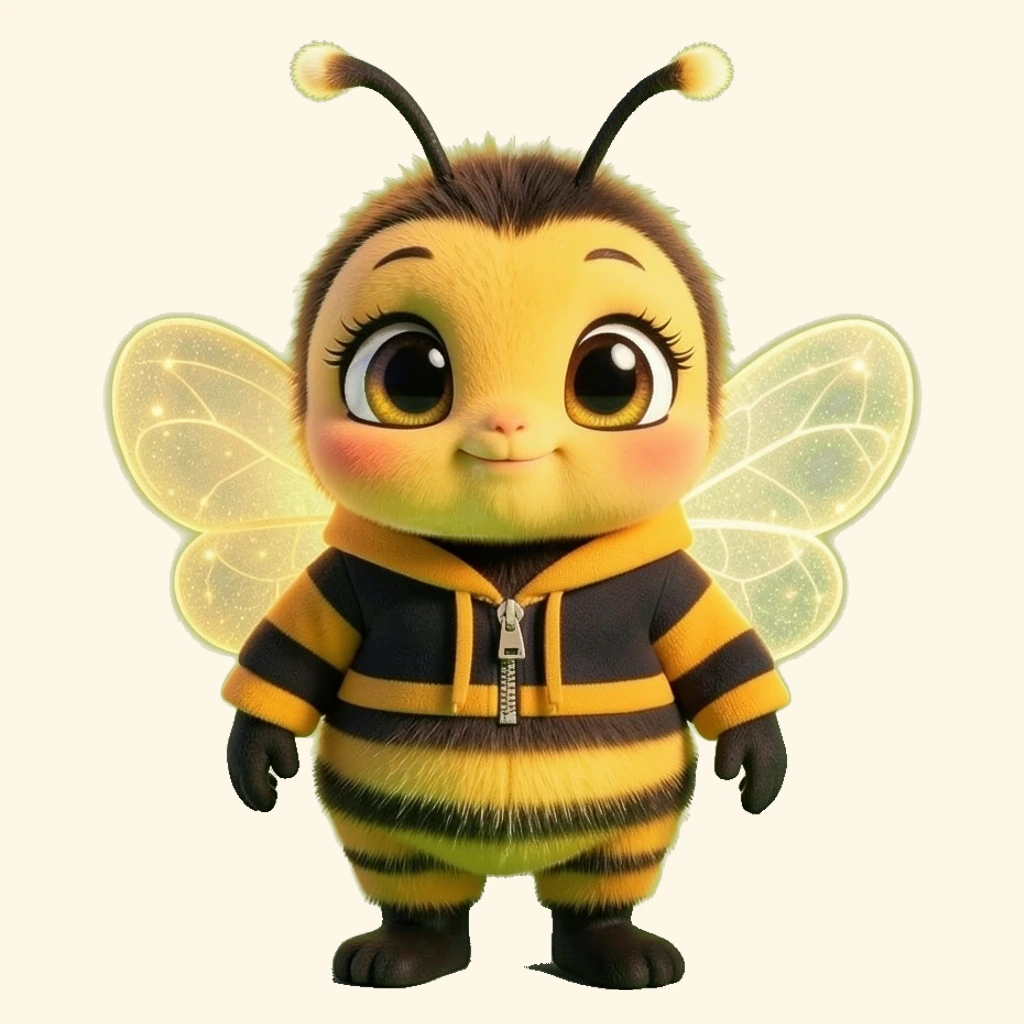
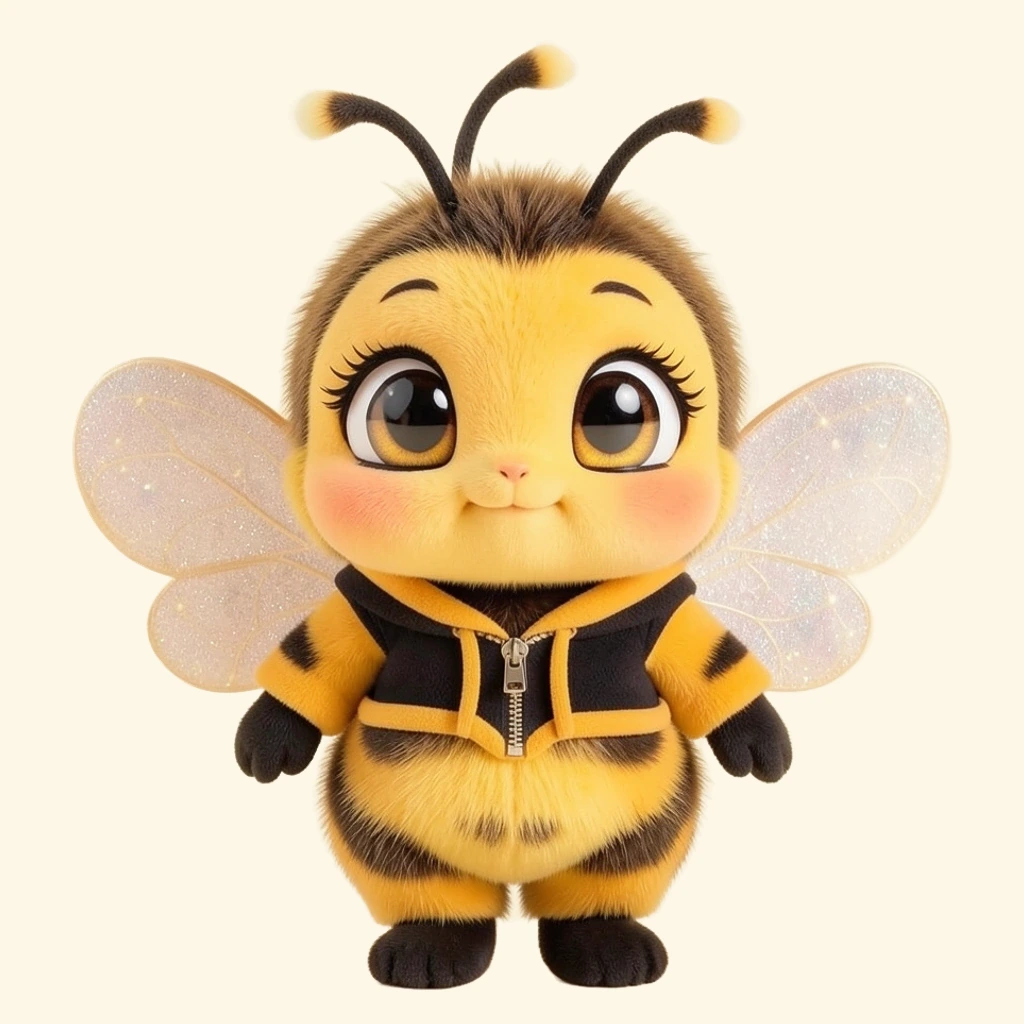
Synchronisation LOCALE depuis le coffre (aea80a1b2) — sans minutes Actions ; le dépôt public republie le site

diff --git a/javis/javis-widget.js b/javis/javis-widget.js
@@ -49,7 +49,7 @@
      ligne est passee. C'est exactement le defaut que j'ai mesure sur Lingua le meme
      jour (message m085 aux autres sessions) : je me l'applique a moi-meme.
      Une ligne, aucun effet visible. L'audit LIVE du domaine la lit tout seul. */
-  var JAVIS_VER = 'v1.38';
+  var JAVIS_VER = 'v1.39';
   try { window.JAVIS_VER = JAVIS_VER; } catch (e) {}
   /* d'où ce fichier vient : la mise à jour relit CETTE adresse pour savoir quelle Bee est servie (document.currentScript
      n'existe qu'au chargement du fichier, pas plus tard) */
@@ -2849,21 +2849,23 @@
      Mesuré à la main sur la planche 1024 × 1024 (30.10). */
   SQUELETTES['bee/v3'] = {
     os: [
-      { id: 'antG', parent: 'tete', a: [435, 180], trace: [[435, 180], [405, 120], [370, 80], [320, 62]], r: 28, f: 22, cote: -1, sens: 'haut', type: 'antenne' },
-      { id: 'antD', parent: 'tete', a: [590, 185], trace: [[590, 185], [625, 120], [670, 85], [712, 68]], r: 28, f: 22, cote: 1, sens: 'haut', type: 'antenne' },
-      { id: 'aileG', parent: 'tete', a: [300, 540], trace: [[255, 490], [225, 462], [177, 400]], r: 40, f: 20, cote: -1, sens: 'haut', type: 'aile', amp: 2.6, bornes: [-14, 14] },
-      { id: 'aileD', parent: 'tete', a: [725, 540], trace: [[770, 490], [800, 462], [848, 400]], r: 40, f: 20, cote: 1, sens: 'haut', type: 'aile', amp: 2.6, bornes: [-14, 14] },
-      { id: 'aileDb', parent: 'tete', a: [790, 545], trace: [[800, 520], [835, 585], [855, 665]], r: 32, f: 16, cote: 1, sens: 'haut', type: 'aile', amp: 2.6, bornes: [-14, 14] },
-      { id: 'brasG', parent: 'corps', a: [300, 620], trace: [[300, 620], [268, 700], [262, 780]], r: 48, f: 24, cote: -1, sens: 'bas', type: 'bras' },
-      { id: 'brasD', parent: 'corps', a: [735, 625], trace: [[735, 625], [760, 700], [752, 780]], r: 48, f: 24, cote: 1, sens: 'bas', type: 'bras', bornes: [-8, 14] },
-      { id: 'jambeG', parent: 'corps', a: [420, 880], trace: [[420, 880], [405, 945], [395, 975]], r: 50, f: 20, cote: -1, sens: 'bas', type: 'jambe' },
-      { id: 'jambeD', parent: 'corps', a: [600, 880], trace: [[600, 880], [610, 940], [625, 975]], r: 50, f: 20, cote: 1, sens: 'bas', type: 'jambe' },
-      { id: 'oeilG', parent: 'visage', a: [398, 375], ellipse: [398, 375, 58, 55], f: 18, type: 'oeil', cote: -1 },
-      { id: 'oeilD', parent: 'visage', a: [628, 377], ellipse: [628, 377, 60, 55], f: 18, type: 'oeil', cote: 1 },
-      { id: 'machoire', parent: 'visage', a: [512, 440], ellipse: [512, 462, 50, 20], f: 18, type: 'machoire', amp: 0.024 },
-      { id: 'visage', parent: 'tete', a: [510, 380], ellipse: [510, 400, 200, 140], f: 40, type: 'visage' },
-      { id: 'tete', parent: 'corps', a: [512, 550], ellipse: [510, 345, 225, 210], f: 34, type: 'tete' },
-      { id: 'corps', parent: null, a: [512, 935], ellipse: [512, 770, 200, 180], f: 40, type: 'corps' }
+      { id: 'antG', parent: 'tete', a: [448, 205], trace: [[448, 205], [440, 160], [400, 125], [345, 102], [318, 116]], r: 26, f: 22, cote: -1, sens: 'haut', type: 'antenne' },
+      { id: 'antC', parent: 'tete', a: [462, 190], trace: [[462, 190], [468, 140], [495, 92], [548, 64]], r: 24, f: 20, cote: 1, sens: 'haut', type: 'antenne' },
+      { id: 'antD', parent: 'tete', a: [598, 205], trace: [[598, 205], [612, 165], [650, 122], [692, 108], [722, 118]], r: 26, f: 22, cote: 1, sens: 'haut', type: 'antenne' },
+      { id: 'aileG', parent: 'tete', a: [310, 520], trace: [[250, 480], [190, 440], [110, 410]], r: 48, f: 24, cote: -1, sens: 'haut', type: 'aile', amp: 2.6, bornes: [-14, 14] },
+      { id: 'aileD', parent: 'tete', a: [725, 520], trace: [[790, 480], [860, 440], [930, 410]], r: 48, f: 24, cote: 1, sens: 'haut', type: 'aile', amp: 2.6, bornes: [-14, 14] },
+      { id: 'aileGb', parent: 'corps', a: [295, 585], trace: [[250, 605], [215, 640], [190, 668]], r: 20, f: 10, cote: -1, sens: 'haut', type: 'aile', amp: 2.6, bornes: [-14, 14] },
+      { id: 'aileDb', parent: 'corps', a: [735, 585], trace: [[780, 605], [815, 640], [845, 668]], r: 20, f: 10, cote: 1, sens: 'haut', type: 'aile', amp: 2.6, bornes: [-14, 14] },
+      { id: 'brasG', parent: 'corps', a: [350, 650], trace: [[350, 650], [310, 705], [278, 748]], r: 40, f: 20, cote: -1, sens: 'bas', type: 'bras', bornes: [-6, 16] },
+      { id: 'brasD', parent: 'corps', a: [685, 650], trace: [[685, 650], [728, 703], [752, 745]], r: 40, f: 20, cote: 1, sens: 'bas', type: 'bras', bornes: [-6, 16] },
+      { id: 'jambeG', parent: 'corps', a: [430, 895], trace: [[430, 895], [425, 940], [425, 965]], r: 50, f: 20, cote: -1, sens: 'bas', type: 'jambe' },
+      { id: 'jambeD', parent: 'corps', a: [590, 895], trace: [[590, 895], [595, 940], [600, 965]], r: 50, f: 20, cote: 1, sens: 'bas', type: 'jambe' },
+      { id: 'oeilG', parent: 'visage', a: [410, 418], ellipse: [410, 418, 62, 58], f: 18, type: 'oeil', cote: -1 },
+      { id: 'oeilD', parent: 'visage', a: [628, 418], ellipse: [628, 418, 62, 58], f: 18, type: 'oeil', cote: 1 },
+      { id: 'machoire', parent: 'visage', a: [505, 480], ellipse: [505, 498, 48, 18], f: 18, type: 'machoire', amp: 0.024 },
+      { id: 'visage', parent: 'tete', a: [510, 420], ellipse: [510, 430, 185, 150], f: 40, type: 'visage' },
+      { id: 'tete', parent: 'corps', a: [512, 580], ellipse: [510, 395, 225, 205], f: 34, type: 'tete' },
+      { id: 'corps', parent: null, a: [512, 940], ellipse: [512, 780, 190, 170], f: 40, type: 'corps' }
     ]
   };
   SQUELETTES['donkey/v3'] = {

diff --git a/tools/javis/javis-widget.js b/tools/javis/javis-widget.js
@@ -49,7 +49,7 @@
      ligne est passee. C'est exactement le defaut que j'ai mesure sur Lingua le meme
      jour (message m085 aux autres sessions) : je me l'applique a moi-meme.
      Une ligne, aucun effet visible. L'audit LIVE du domaine la lit tout seul. */
-  var JAVIS_VER = 'v1.38';
+  var JAVIS_VER = 'v1.39';
   try { window.JAVIS_VER = JAVIS_VER; } catch (e) {}
   /* d'où ce fichier vient : la mise à jour relit CETTE adresse pour savoir quelle Bee est servie (document.currentScript
      n'existe qu'au chargement du fichier, pas plus tard) */
@@ -2849,21 +2849,23 @@
      Mesuré à la main sur la planche 1024 × 1024 (30.10). */
   SQUELETTES['bee/v3'] = {
     os: [
-      { id: 'antG', parent: 'tete', a: [435, 180], trace: [[435, 180], [405, 120], [370, 80], [320, 62]], r: 28, f: 22, cote: -1, sens: 'haut', type: 'antenne' },
-      { id: 'antD', parent: 'tete', a: [590, 185], trace: [[590, 185], [625, 120], [670, 85], [712, 68]], r: 28, f: 22, cote: 1, sens: 'haut', type: 'antenne' },
-      { id: 'aileG', parent: 'tete', a: [300, 540], trace: [[255, 490], [225, 462], [177, 400]], r: 40, f: 20, cote: -1, sens: 'haut', type: 'aile', amp: 2.6, bornes: [-14, 14] },
-      { id: 'aileD', parent: 'tete', a: [725, 540], trace: [[770, 490], [800, 462], [848, 400]], r: 40, f: 20, cote: 1, sens: 'haut', type: 'aile', amp: 2.6, bornes: [-14, 14] },
-      { id: 'aileDb', parent: 'tete', a: [790, 545], trace: [[800, 520], [835, 585], [855, 665]], r: 32, f: 16, cote: 1, sens: 'haut', type: 'aile', amp: 2.6, bornes: [-14, 14] },
-      { id: 'brasG', parent: 'corps', a: [300, 620], trace: [[300, 620], [268, 700], [262, 780]], r: 48, f: 24, cote: -1, sens: 'bas', type: 'bras' },
-      { id: 'brasD', parent: 'corps', a: [735, 625], trace: [[735, 625], [760, 700], [752, 780]], r: 48, f: 24, cote: 1, sens: 'bas', type: 'bras', bornes: [-8, 14] },
-      { id: 'jambeG', parent: 'corps', a: [420, 880], trace: [[420, 880], [405, 945], [395, 975]], r: 50, f: 20, cote: -1, sens: 'bas', type: 'jambe' },
-      { id: 'jambeD', parent: 'corps', a: [600, 880], trace: [[600, 880], [610, 940], [625, 975]], r: 50, f: 20, cote: 1, sens: 'bas', type: 'jambe' },
-      { id: 'oeilG', parent: 'visage', a: [398, 375], ellipse: [398, 375, 58, 55], f: 18, type: 'oeil', cote: -1 },
-      { id: 'oeilD', parent: 'visage', a: [628, 377], ellipse: [628, 377, 60, 55], f: 18, type: 'oeil', cote: 1 },
-      { id: 'machoire', parent: 'visage', a: [512, 440], ellipse: [512, 462, 50, 20], f: 18, type: 'machoire', amp: 0.024 },
-      { id: 'visage', parent: 'tete', a: [510, 380], ellipse: [510, 400, 200, 140], f: 40, type: 'visage' },
-      { id: 'tete', parent: 'corps', a: [512, 550], ellipse: [510, 345, 225, 210], f: 34, type: 'tete' },
-      { id: 'corps', parent: null, a: [512, 935], ellipse: [512, 770, 200, 180], f: 40, type: 'corps' }
+      { id: 'antG', parent: 'tete', a: [448, 205], trace: [[448, 205], [440, 160], [400, 125], [345, 102], [318, 116]], r: 26, f: 22, cote: -1, sens: 'haut', type: 'antenne' },
+      { id: 'antC', parent: 'tete', a: [462, 190], trace: [[462, 190], [468, 140], [495, 92], [548, 64]], r: 24, f: 20, cote: 1, sens: 'haut', type: 'antenne' },
+      { id: 'antD', parent: 'tete', a: [598, 205], trace: [[598, 205], [612, 165], [650, 122], [692, 108], [722, 118]], r: 26, f: 22, cote: 1, sens: 'haut', type: 'antenne' },
+      { id: 'aileG', parent: 'tete', a: [310, 520], trace: [[250, 480], [190, 440], [110, 410]], r: 48, f: 24, cote: -1, sens: 'haut', type: 'aile', amp: 2.6, bornes: [-14, 14] },
+      { id: 'aileD', parent: 'tete', a: [725, 520], trace: [[790, 480], [860, 440], [930, 410]], r: 48, f: 24, cote: 1, sens: 'haut', type: 'aile', amp: 2.6, bornes: [-14, 14] },
+      { id: 'aileGb', parent: 'corps', a: [295, 585], trace: [[250, 605], [215, 640], [190, 668]], r: 20, f: 10, cote: -1, sens: 'haut', type: 'aile', amp: 2.6, bornes: [-14, 14] },
+      { id: 'aileDb', parent: 'corps', a: [735, 585], trace: [[780, 605], [815, 640], [845, 668]], r: 20, f: 10, cote: 1, sens: 'haut', type: 'aile', amp: 2.6, bornes: [-14, 14] },
+      { id: 'brasG', parent: 'corps', a: [350, 650], trace: [[350, 650], [310, 705], [278, 748]], r: 40, f: 20, cote: -1, sens: 'bas', type: 'bras', bornes: [-6, 16] },
+      { id: 'brasD', parent: 'corps', a: [685, 650], trace: [[685, 650], [728, 703], [752, 745]], r: 40, f: 20, cote: 1, sens: 'bas', type: 'bras', bornes: [-6, 16] },
+      { id: 'jambeG', parent: 'corps', a: [430, 895], trace: [[430, 895], [425, 940], [425, 965]], r: 50, f: 20, cote: -1, sens: 'bas', type: 'jambe' },
+      { id: 'jambeD', parent: 'corps', a: [590, 895], trace: [[590, 895], [595, 940], [600, 965]], r: 50, f: 20, cote: 1, sens: 'bas', type: 'jambe' },
+      { id: 'oeilG', parent: 'visage', a: [410, 418], ellipse: [410, 418, 62, 58], f: 18, type: 'oeil', cote: -1 },
+      { id: 'oeilD', parent: 'visage', a: [628, 418], ellipse: [628, 418, 62, 58], f: 18, type: 'oeil', cote: 1 },
+      { id: 'machoire', parent: 'visage', a: [505, 480], ellipse: [505, 498, 48, 18], f: 18, type: 'machoire', amp: 0.024 },
+      { id: 'visage', parent: 'tete', a: [510, 420], ellipse: [510, 430, 185, 150], f: 40, type: 'visage' },
+      { id: 'tete', parent: 'corps', a: [512, 580], ellipse: [510, 395, 225, 205], f: 34, type: 'tete' },
+      { id: 'corps', parent: null, a: [512, 940], ellipse: [512, 780, 190, 170], f: 40, type: 'corps' }
     ]
   };
   SQUELETTES['donkey/v3'] = {

diff --git a/lingua/marionnette.js b/lingua/marionnette.js
@@ -113,21 +113,23 @@
      Mesuré à la main sur la planche 1024 × 1024 (30.10). */
   SQUELETTES['bee/v3'] = {
     os: [
-      { id: 'antG', parent: 'tete', a: [435, 180], trace: [[435, 180], [405, 120], [370, 80], [320, 62]], r: 28, f: 22, cote: -1, sens: 'haut', type: 'antenne' },
-      { id: 'antD', parent: 'tete', a: [590, 185], trace: [[590, 185], [625, 120], [670, 85], [712, 68]], r: 28, f: 22, cote: 1, sens: 'haut', type: 'antenne' },
-      { id: 'aileG', parent: 'tete', a: [300, 540], trace: [[255, 490], [225, 462], [177, 400]], r: 40, f: 20, cote: -1, sens: 'haut', type: 'aile', amp: 2.6, bornes: [-14, 14] },
-      { id: 'aileD', parent: 'tete', a: [725, 540], trace: [[770, 490], [800, 462], [848, 400]], r: 40, f: 20, cote: 1, sens: 'haut', type: 'aile', amp: 2.6, bornes: [-14, 14] },
-      { id: 'aileDb', parent: 'tete', a: [790, 545], trace: [[800, 520], [835, 585], [855, 665]], r: 32, f: 16, cote: 1, sens: 'haut', type: 'aile', amp: 2.6, bornes: [-14, 14] },
-      { id: 'brasG', parent: 'corps', a: [300, 620], trace: [[300, 620], [268, 700], [262, 780]], r: 48, f: 24, cote: -1, sens: 'bas', type: 'bras' },
-      { id: 'brasD', parent: 'corps', a: [735, 625], trace: [[735, 625], [760, 700], [752, 780]], r: 48, f: 24, cote: 1, sens: 'bas', type: 'bras', bornes: [-8, 14] },
-      { id: 'jambeG', parent: 'corps', a: [420, 880], trace: [[420, 880], [405, 945], [395, 975]], r: 50, f: 20, cote: -1, sens: 'bas', type: 'jambe' },
-      { id: 'jambeD', parent: 'corps', a: [600, 880], trace: [[600, 880], [610, 940], [625, 975]], r: 50, f: 20, cote: 1, sens: 'bas', type: 'jambe' },
-      { id: 'oeilG', parent: 'visage', a: [398, 375], ellipse: [398, 375, 58, 55], f: 18, type: 'oeil', cote: -1 },
-      { id: 'oeilD', parent: 'visage', a: [628, 377], ellipse: [628, 377, 60, 55], f: 18, type: 'oeil', cote: 1 },
-      { id: 'machoire', parent: 'visage', a: [512, 440], ellipse: [512, 462, 50, 20], f: 18, type: 'machoire', amp: 0.024 },
-      { id: 'visage', parent: 'tete', a: [510, 380], ellipse: [510, 400, 200, 140], f: 40, type: 'visage' },
-      { id: 'tete', parent: 'corps', a: [512, 550], ellipse: [510, 345, 225, 210], f: 34, type: 'tete' },
-      { id: 'corps', parent: null, a: [512, 935], ellipse: [512, 770, 200, 180], f: 40, type: 'corps' }
+      { id: 'antG', parent: 'tete', a: [448, 205], trace: [[448, 205], [440, 160], [400, 125], [345, 102], [318, 116]], r: 26, f: 22, cote: -1, sens: 'haut', type: 'antenne' },
+      { id: 'antC', parent: 'tete', a: [462, 190], trace: [[462, 190], [468, 140], [495, 92], [548, 64]], r: 24, f: 20, cote: 1, sens: 'haut', type: 'antenne' },
+      { id: 'antD', parent: 'tete', a: [598, 205], trace: [[598, 205], [612, 165], [650, 122], [692, 108], [722, 118]], r: 26, f: 22, cote: 1, sens: 'haut', type: 'antenne' },
+      { id: 'aileG', parent: 'tete', a: [310, 520], trace: [[250, 480], [190, 440], [110, 410]], r: 48, f: 24, cote: -1, sens: 'haut', type: 'aile', amp: 2.6, bornes: [-14, 14] },
+      { id: 'aileD', parent: 'tete', a: [725, 520], trace: [[790, 480], [860, 440], [930, 410]], r: 48, f: 24, cote: 1, sens: 'haut', type: 'aile', amp: 2.6, bornes: [-14, 14] },
+      { id: 'aileGb', parent: 'corps', a: [295, 585], trace: [[250, 605], [215, 640], [190, 668]], r: 20, f: 10, cote: -1, sens: 'haut', type: 'aile', amp: 2.6, bornes: [-14, 14] },
+      { id: 'aileDb', parent: 'corps', a: [735, 585], trace: [[780, 605], [815, 640], [845, 668]], r: 20, f: 10, cote: 1, sens: 'haut', type: 'aile', amp: 2.6, bornes: [-14, 14] },
+      { id: 'brasG', parent: 'corps', a: [350, 650], trace: [[350, 650], [310, 705], [278, 748]], r: 40, f: 20, cote: -1, sens: 'bas', type: 'bras', bornes: [-6, 16] },
+      { id: 'brasD', parent: 'corps', a: [685, 650], trace: [[685, 650], [728, 703], [752, 745]], r: 40, f: 20, cote: 1, sens: 'bas', type: 'bras', bornes: [-6, 16] },
+      { id: 'jambeG', parent: 'corps', a: [430, 895], trace: [[430, 895], [425, 940], [425, 965]], r: 50, f: 20, cote: -1, sens: 'bas', type: 'jambe' },
+      { id: 'jambeD', parent: 'corps', a: [590, 895], trace: [[590, 895], [595, 940], [600, 965]], r: 50, f: 20, cote: 1, sens: 'bas', type: 'jambe' },
+      { id: 'oeilG', parent: 'visage', a: [410, 418], ellipse: [410, 418, 62, 58], f: 18, type: 'oeil', cote: -1 },
+      { id: 'oeilD', parent: 'visage', a: [628, 418], ellipse: [628, 418, 62, 58], f: 18, type: 'oeil', cote: 1 },
+      { id: 'machoire', parent: 'visage', a: [505, 480], ellipse: [505, 498, 48, 18], f: 18, type: 'machoire', amp: 0.024 },
+      { id: 'visage', parent: 'tete', a: [510, 420], ellipse: [510, 430, 185, 150], f: 40, type: 'visage' },
+      { id: 'tete', parent: 'corps', a: [512, 580], ellipse: [510, 395, 225, 205], f: 34, type: 'tete' },
+      { id: 'corps', parent: null, a: [512, 940], ellipse: [512, 780, 190, 170], f: 40, type: 'corps' }
     ]
   };
   SQUELETTES['donkey/v3'] = {

diff --git a/tools/javis/marionnette.js b/tools/javis/marionnette.js
@@ -113,21 +113,23 @@
      Mesuré à la main sur la planche 1024 × 1024 (30.10). */
   SQUELETTES['bee/v3'] = {
     os: [
-      { id: 'antG', parent: 'tete', a: [435, 180], trace: [[435, 180], [405, 120], [370, 80], [320, 62]], r: 28, f: 22, cote: -1, sens: 'haut', type: 'antenne' },
-      { id: 'antD', parent: 'tete', a: [590, 185], trace: [[590, 185], [625, 120], [670, 85], [712, 68]], r: 28, f: 22, cote: 1, sens: 'haut', type: 'antenne' },
-      { id: 'aileG', parent: 'tete', a: [300, 540], trace: [[255, 490], [225, 462], [177, 400]], r: 40, f: 20, cote: -1, sens: 'haut', type: 'aile', amp: 2.6, bornes: [-14, 14] },
-      { id: 'aileD', parent: 'tete', a: [725, 540], trace: [[770, 490], [800, 462], [848, 400]], r: 40, f: 20, cote: 1, sens: 'haut', type: 'aile', amp: 2.6, bornes: [-14, 14] },
-      { id: 'aileDb', parent: 'tete', a: [790, 545], trace: [[800, 520], [835, 585], [855, 665]], r: 32, f: 16, cote: 1, sens: 'haut', type: 'aile', amp: 2.6, bornes: [-14, 14] },
-      { id: 'brasG', parent: 'corps', a: [300, 620], trace: [[300, 620], [268, 700], [262, 780]], r: 48, f: 24, cote: -1, sens: 'bas', type: 'bras' },
-      { id: 'brasD', parent: 'corps', a: [735, 625], trace: [[735, 625], [760, 700], [752, 780]], r: 48, f: 24, cote: 1, sens: 'bas', type: 'bras', bornes: [-8, 14] },
-      { id: 'jambeG', parent: 'corps', a: [420, 880], trace: [[420, 880], [405, 945], [395, 975]], r: 50, f: 20, cote: -1, sens: 'bas', type: 'jambe' },
-      { id: 'jambeD', parent: 'corps', a: [600, 880], trace: [[600, 880], [610, 940], [625, 975]], r: 50, f: 20, cote: 1, sens: 'bas', type: 'jambe' },
-      { id: 'oeilG', parent: 'visage', a: [398, 375], ellipse: [398, 375, 58, 55], f: 18, type: 'oeil', cote: -1 },
-      { id: 'oeilD', parent: 'visage', a: [628, 377], ellipse: [628, 377, 60, 55], f: 18, type: 'oeil', cote: 1 },
-      { id: 'machoire', parent: 'visage', a: [512, 440], ellipse: [512, 462, 50, 20], f: 18, type: 'machoire', amp: 0.024 },
-      { id: 'visage', parent: 'tete', a: [510, 380], ellipse: [510, 400, 200, 140], f: 40, type: 'visage' },
-      { id: 'tete', parent: 'corps', a: [512, 550], ellipse: [510, 345, 225, 210], f: 34, type: 'tete' },
-      { id: 'corps', parent: null, a: [512, 935], ellipse: [512, 770, 200, 180], f: 40, type: 'corps' }
+      { id: 'antG', parent: 'tete', a: [448, 205], trace: [[448, 205], [440, 160], [400, 125], [345, 102], [318, 116]], r: 26, f: 22, cote: -1, sens: 'haut', type: 'antenne' },
+      { id: 'antC', parent: 'tete', a: [462, 190], trace: [[462, 190], [468, 140], [495, 92], [548, 64]], r: 24, f: 20, cote: 1, sens: 'haut', type: 'antenne' },
+      { id: 'antD', parent: 'tete', a: [598, 205], trace: [[598, 205], [612, 165], [650, 122], [692, 108], [722, 118]], r: 26, f: 22, cote: 1, sens: 'haut', type: 'antenne' },
+      { id: 'aileG', parent: 'tete', a: [310, 520], trace: [[250, 480], [190, 440], [110, 410]], r: 48, f: 24, cote: -1, sens: 'haut', type: 'aile', amp: 2.6, bornes: [-14, 14] },
+      { id: 'aileD', parent: 'tete', a: [725, 520], trace: [[790, 480], [860, 440], [930, 410]], r: 48, f: 24, cote: 1, sens: 'haut', type: 'aile', amp: 2.6, bornes: [-14, 14] },
+      { id: 'aileGb', parent: 'corps', a: [295, 585], trace: [[250, 605], [215, 640], [190, 668]], r: 20, f: 10, cote: -1, sens: 'haut', type: 'aile', amp: 2.6, bornes: [-14, 14] },
+      { id: 'aileDb', parent: 'corps', a: [735, 585], trace: [[780, 605], [815, 640], [845, 668]], r: 20, f: 10, cote: 1, sens: 'haut', type: 'aile', amp: 2.6, bornes: [-14, 14] },
+      { id: 'brasG', parent: 'corps', a: [350, 650], trace: [[350, 650], [310, 705], [278, 748]], r: 40, f: 20, cote: -1, sens: 'bas', type: 'bras', bornes: [-6, 16] },
+      { id: 'brasD', parent: 'corps', a: [685, 650], trace: [[685, 650], [728, 703], [752, 745]], r: 40, f: 20, cote: 1, sens: 'bas', type: 'bras', bornes: [-6, 16] },
+      { id: 'jambeG', parent: 'corps', a: [430, 895], trace: [[430, 895], [425, 940], [425, 965]], r: 50, f: 20, cote: -1, sens: 'bas', type: 'jambe' },
+      { id: 'jambeD', parent: 'corps', a: [590, 895], trace: [[590, 895], [595, 940], [600, 965]], r: 50, f: 20, cote: 1, sens: 'bas', type: 'jambe' },
+      { id: 'oeilG', parent: 'visage', a: [410, 418], ellipse: [410, 418, 62, 58], f: 18, type: 'oeil', cote: -1 },
+      { id: 'oeilD', parent: 'visage', a: [628, 418], ellipse: [628, 418, 62, 58], f: 18, type: 'oeil', cote: 1 },
+      { id: 'machoire', parent: 'visage', a: [505, 480], ellipse: [505, 498, 48, 18], f: 18, type: 'machoire', amp: 0.024 },
+      { id: 'visage', parent: 'tete', a: [510, 420], ellipse: [510, 430, 185, 150], f: 40, type: 'visage' },
+      { id: 'tete', parent: 'corps', a: [512, 580], ellipse: [510, 395, 225, 205], f: 34, type: 'tete' },
+      { id: 'corps', parent: null, a: [512, 940], ellipse: [512, 780, 190, 170], f: 40, type: 'corps' }
     ]
   };
   SQUELETTES['donkey/v3'] = {

diff --git a/javis/sw.js b/javis/sw.js
@@ -1,7 +1,7 @@
 /* Javis — Service Worker : réseau d'abord (toujours à jour), repli cache hors-ligne.
  * Même pattern qu'arbre/sw.js (éprouvé) + règle MAJ AUTO FORCÉE (CLAUDE.md) :
  * les URLs marquées ?_v= / ?_force_upd_ passent TOUJOURS en direct réseau. */
-var CACHE = "javis-v1.38";   /* DOIT suivre JAVIS_VER du widget (garde test:javis-bee) */
+var CACHE = "javis-v1.39";   /* DOIT suivre JAVIS_VER du widget (garde test:javis-bee) */
 var ASSETS = ["./", "manifest.json", "icon-192.png", "javis-widget.js"]; /* « ./ » EST la page : « index.html » en plus la gardait en double (audit complet 30.09) */ /* icon-512 (370 Ko) : plus pré-chargée (audit perf 27.09), le manifeste la donne à l'installation */
 self.addEventListener("install", function (e) {
   self.skipWaiting();

diff --git a/javis/javis-version.js b/javis/javis-version.js
@@ -1,1 +1,1 @@
-window.__javisVerServie = 'v1.38';
+window.__javisVerServie = 'v1.39';

diff --git a/CLAUDE-HISTOIRE.md b/CLAUDE-HISTOIRE.md
@@ -12455,6 +12455,8 @@ Kevin : « Va au bout de tout le travail auto. Sans t'arrêter jamais, note-le. 
 > **Bee v1.30 (4.11.2026, javis-bee)** — Marionnette 2.3 : la 3D (three.js, perso3d.js) n'est plus téléchargée sur un appareil sans WebGL2 (sonde réelle `webgl2Reel()`, pont 1561) ; le robot « Servi » mesure la part visible d'un texte (un message de chat défilé dans sa liste n'est plus « sous la pastille », pont 1639). Gardes : `test:marionnette` bloc I, `verify-verifier-servi.mjs` 2f/2g, rouges sans le correctif.
 > **Bee v1.37 (12.11.2026, javis-bee — Kevin : image de « Bibi » + maquette de chat, « Revois Bee et Donkey avec tout ça »)** — Ce que Bee sait faire n'a pas changé ; rien d'ouvert ni de fermé (elle ne fait toujours rien sans le ✅ de Kevin, boutiques fermées d'office). Ce qui change, pour Bee ET Bourricot (même widget) : le chat s'ouvre sur quatre grandes pastilles tirées de la maquette (« Me poser une question », « Avoir une idée », « Aide technique », « Juste papoter 😊 »), le message d'accueil par défaut (« Je suis contente de te revoir ! Que veux-tu faire aujourd'hui ? ✨ »), le champ « Écris-moi quelque chose… » et un bouton d'envoi rond orange. NON FAIT, dit tel quel : le nouveau dessin 3D « Pixar » (poils jaunes, sweat noir et orange, ailes lumineuses) — le générateur gratuit part du texte seul et ne reprend pas une image modèle, et l'image est une scène montée (texte et bulles incrustés, ailes cachées) : il faudrait générer, détourer, séparer les ailes et re-mesurer le squelette de la marionnette ; à lancer sur un oui de Kevin. Gardes : `test:javis-bee`, `verify-bee-comportements.mjs` (section l, rouge avec l'ancien widget).
 
+> **Bee v1.39 (13.11.2026, javis-bee, prêt — pas encore en ligne)** — Ce que Bee sait faire n'a pas changé (elle lit et cherche, n'écrit rien sans le bouton de Kevin) ; ce qui change : son dessin devient celui de l'image « Bibi » de Kevin (abeille à veste zippée noir/orange, ailes pailletées) et son squelette de marionnette est refait (3 antennes, ailes basses réduites, bras bornés) : 0 pli retourné. Bourricot garde son dessin (déjà dans ce style). Rien n'est fermé ni ouvert pour Kevin ; la mise en ligne attend son « fusionne ». Gardes : `test:marionnette`, `test:javis-bee`.
+
 > **Bee v1.36 (6.11.2026, javis-bee)** — Le compteur « ?fps=1 » montrait « 0 img/s » pour la tête cachée du chat fermé (0×0 px, jamais dessinée) : Kevin y lisait un Bee figé. Un personnage non dessiné s'affiche « caché » ; un visible figé reste « 0 img/s ». Garde : `tests/verify-marionnette.mjs` (105 contrôles, rouge avec la marionnette 2.5).
 >
 > **Bee v1.35 (6.11.2026, javis-bee)** — Le compteur de cadence « ?fps=1 » ne s'affichait pas : Bee vit dans un cadre dont l'adresse n'a pas le réglage. Il lit maintenant l'adresse de la page et s'y affiche (mémorisé ; `?fps=0` l'efface). Garde : `tests/verify-marionnette.mjs` (vrai cadre, rouge sous sabotage).

diff --git a/CHANGELOG.md b/CHANGELOG.md
@@ -85,6 +85,9 @@ Historique complet des versions. Les 5 dernières versions restent dans `CLAUDE.
 ## Arbre v3.219 — Desarzens se dit « Dessarzanss » (2026-11-09)
 - Kevin : « dessarzanss » (le s final se prononce). `PRONONCIATIONS` : Desarzens → « Dessarzanss ». Garde `verify-prononciation.mjs`.
 
+## Bee v1.39 — Bee « Bibi » : nouvelle image + squelette refait (2026-11-13, prêt, pas encore en ligne)
+- Kevin : « Je veux le même visuel que l'image » (Bibi). `lingua/bee/v3/rig/base.webp` refait (abeille à veste zippée noir/orange, ailes pailletées) ; `tools/javis/marionnette.js` : `SQUELETTES['bee/v3']` avec 3 antennes, ailes basses plus petites, bras bornés `[-6,16]` (copies `lingua/`, `javis/`, `arbre/` par `sync:javis`) ; `javis/sw.js` = `javis-v1.39`. Bourricot inchangé. CMCteams et light ne sont pas touchées (Bee est un widget du domaine). Gardes : `test:marionnette` 105/0 (ancien squelette → 3 échecs), `test:javis-bee` 97/0.
+
 ## Bee v1.38 / marionnette v2.7 — Bee et Bourricot en peluches style Pixar (2026-11-12)
 - Kevin : « le même visuel que l'image, toujours une marionnette, personnage des plus mignon ». Nouvelles images `lingua/bee/v3/rig/base.webp` et `lingua/donkey/v3/rig/base.webp` ; `tools/javis/marionnette.js` v2.7 (copie `lingua/marionnette.js`, embarqué dans `javis-widget.js` + `arbre/` + `javis/`, `javis/sw.js` = `javis-v1.38`) : squelettes `bee/v3` / `donkey/v3` (ailes en deux lobes, bras bornés). Garde `test:marionnette` 105/0.
 
